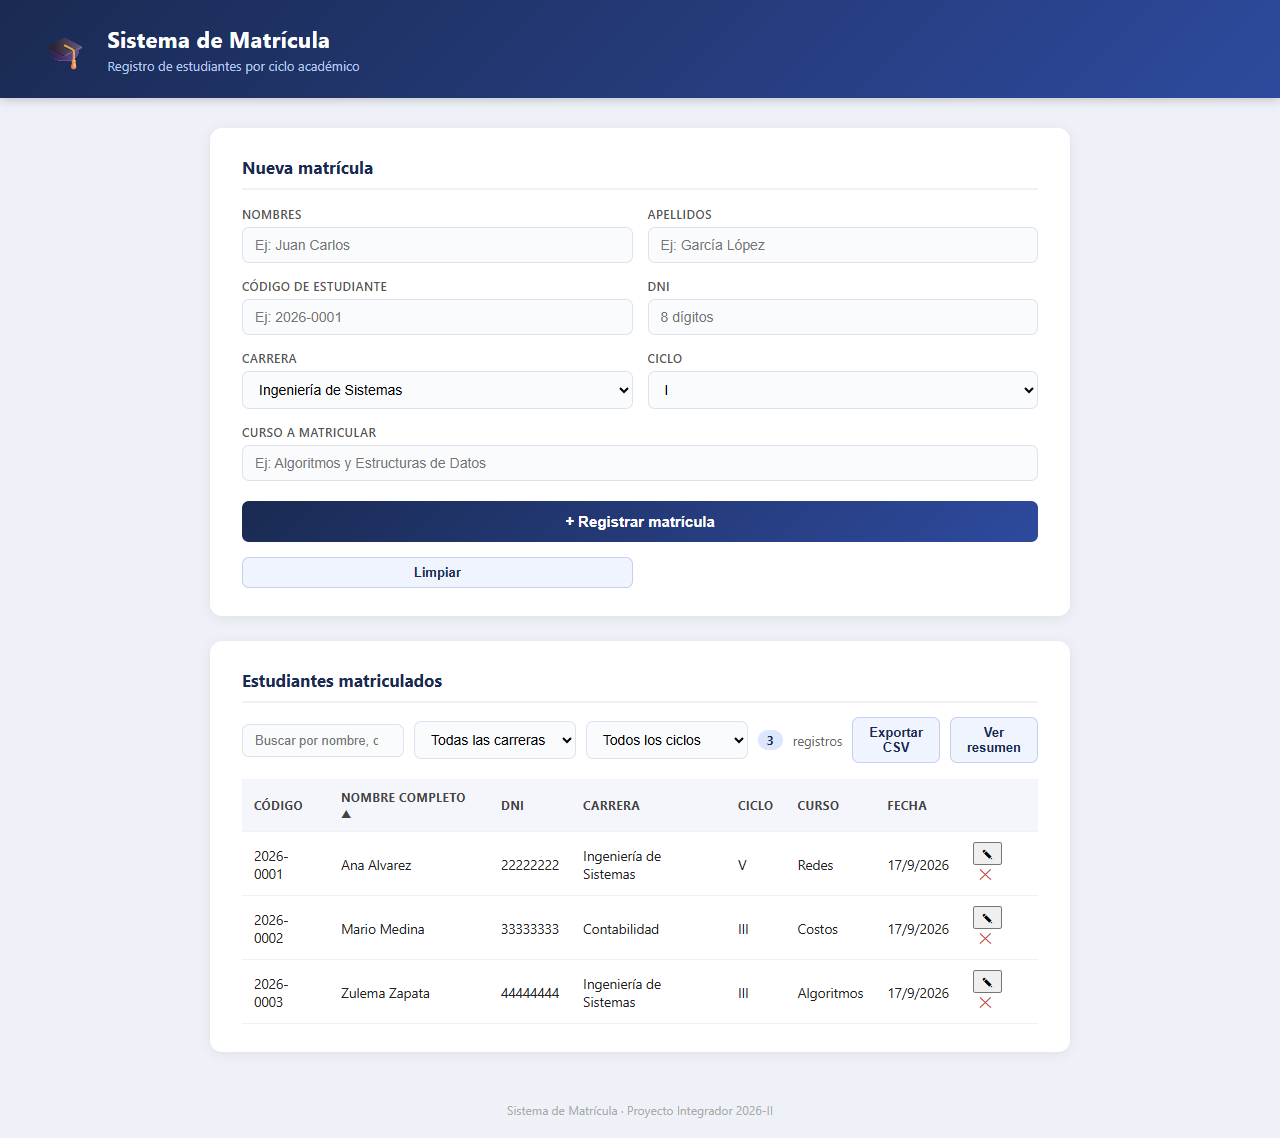
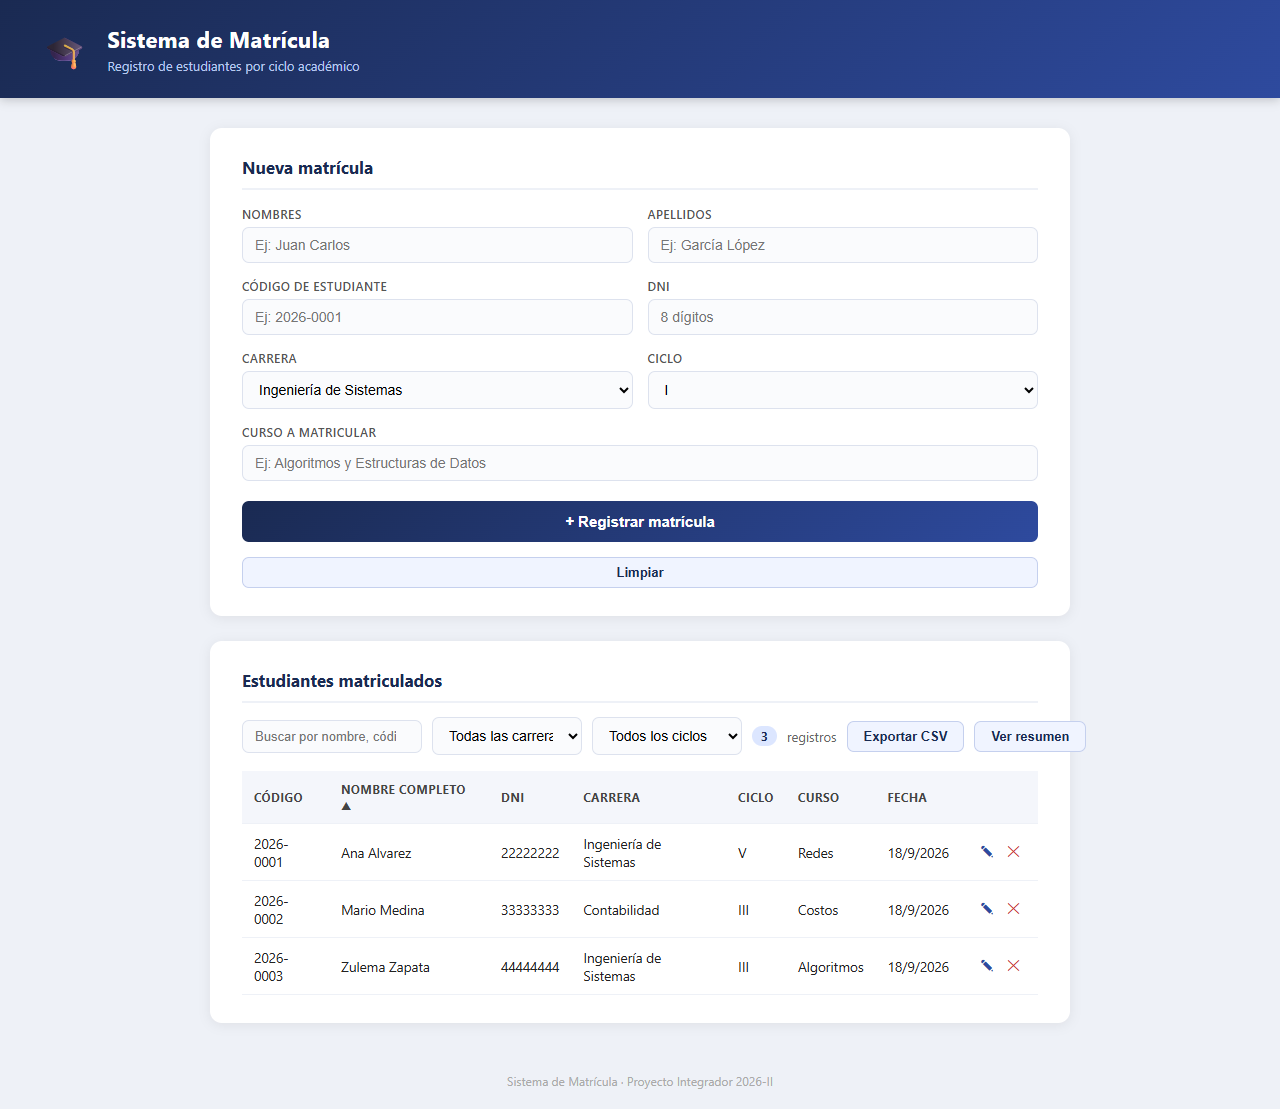
Actualizar README y evidencias con el cierre del avance
Regenera el historial, el grafico de ramas, el detalle de fusiones, el
listado de ramas y el estado de sincronizacion tras integrar los ajustes
de presentacion y unificar los nombres de autor.

El recuento por integrante pasa a reflejar personas y no configuraciones
de Git: 36 commits de Rodrigo Aparcana, 6 de Giancarlo Ccahuana y 5 de
Arnold.

Sustituye la observacion sobre la barra de herramientas por las medidas
verificadas en el navegador, y reemplaza la captura por una que muestra
la interfaz ya ajustada. Completa ademas la tabla de ramas del README.

diff --git a/README.md b/README.md
@@ -128,6 +128,11 @@ para que el historial conserve el punto de integración.
 | `feature/actualizar-evidencias` | Actualización de las evidencias | Fusionada |
 | `feature/editar-matricula` | Edición de matrículas registradas | Fusionada |
 | `feature-filtros-ordenamiento` | Filtros por carrera/ciclo y ordenamiento | Fusionada |
+| `feature/actualizar-documentacion-equipo` | README, evidencias e informe del equipo | Fusionada |
+| `fix/pagina-huerfana-del-informe` | Maquetación del informe en PDF | Fusionada |
+| `feature/arreglar-toolbar` | Estilos de la barra de herramientas y del listado | Fusionada |
+| `fix/ancho-del-buscador` | Ancho del campo de búsqueda | Fusionada |
+| `fix/unificar-nombres-de-autor` | Mailmap de los tres integrantes | Fusionada |
 
 ### Ejemplo de uso
 
